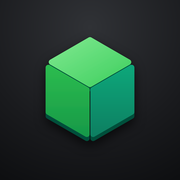
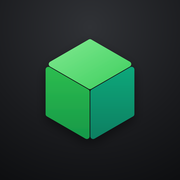
Иконка: убрал тёмный бортик снизу у куба (версия 21) (#16)
Claude-Session: https://claude.ai/code/session_01NksUZ4fHviJTpt4Aa6ovyi

Changed region(s): [[0.25, 0.3056, 0.75, 0.5], [0.25, 0.6111, 0.75, 0.8056], [0.3333, 0.1944, 0.6667, 0.3056]]

diff --git a/index.html b/index.html
@@ -11,8 +11,8 @@
 <meta name="apple-mobile-web-app-status-bar-style" content="black-translucent">
 <meta name="apple-mobile-web-app-title" content="SBERCUBE">
 <link rel="manifest" href="manifest.webmanifest">
-<link rel="apple-touch-icon" href="icon-180.png?v=3">
-<link rel="icon" href="icon-192.png?v=3">
+<link rel="apple-touch-icon" href="icon-180.png?v=4">
+<link rel="icon" href="icon-192.png?v=4">
 <title>SBERCUBE</title>
 <script>try { const th = localStorage.getItem("theme"); if (th === "light") document.documentElement.classList.add("light"); } catch (e) {}</script>
 <style>
@@ -401,7 +401,7 @@
   <div class="mrow"><span>Тема</span><div class="seg glass"><button class="chip" data-theme="dark"><i data-ic="moon"></i> Тёмная</button><button class="chip" data-theme="light"><i data-ic="sun"></i> Светлая</button></div></div>
   <button class="pill" id="ecoBtn"><i data-ic="battery"></i> Экономия батареи: выкл</button>
   <button class="pill" id="reset"><i data-ic="trash"></i> Сбросить квадраты</button>
-  <small style="color:var(--muted);text-align:center">Версия 20</small>
+  <small style="color:var(--muted);text-align:center">Версия 21</small>
 </div>
 </div>
 <div id="selTools"><div id="hint"></div></div>

diff --git a/sw.js b/sw.js
@@ -1,5 +1,5 @@
 // Сначала сеть (чтобы приходили обновления), без интернета — из кэша телефона
-const CACHE = "zvonki-v32";
+const CACHE = "zvonki-v33";
 const FILES = ["./", "./index.html", "./manifest.webmanifest", "./icon-180.png", "./icon-192.png", "./icon-512.png", "./icon-maskable-512.png"];
 self.addEventListener("install", e => { e.waitUntil(caches.open(CACHE).then(c => c.addAll(FILES)).then(() => self.skipWaiting())); });
 self.addEventListener("activate", e => { e.waitUntil(caches.keys().then(ks => Promise.all(ks.filter(k => k !== CACHE).map(k => caches.delete(k)))).then(() => self.clients.claim())); });
